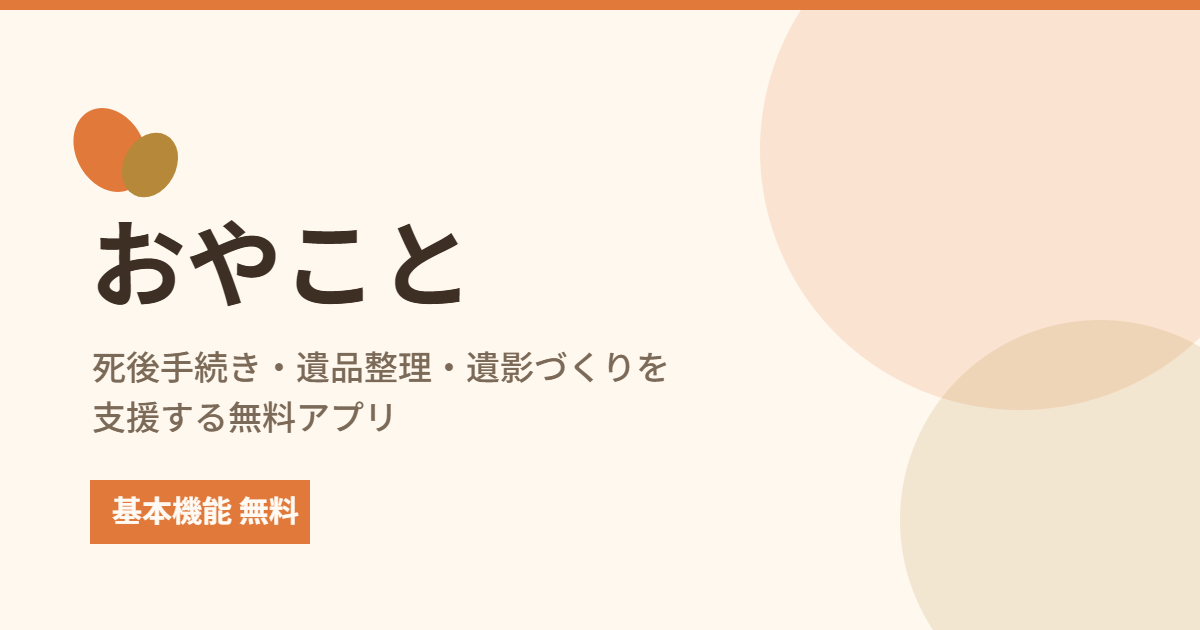
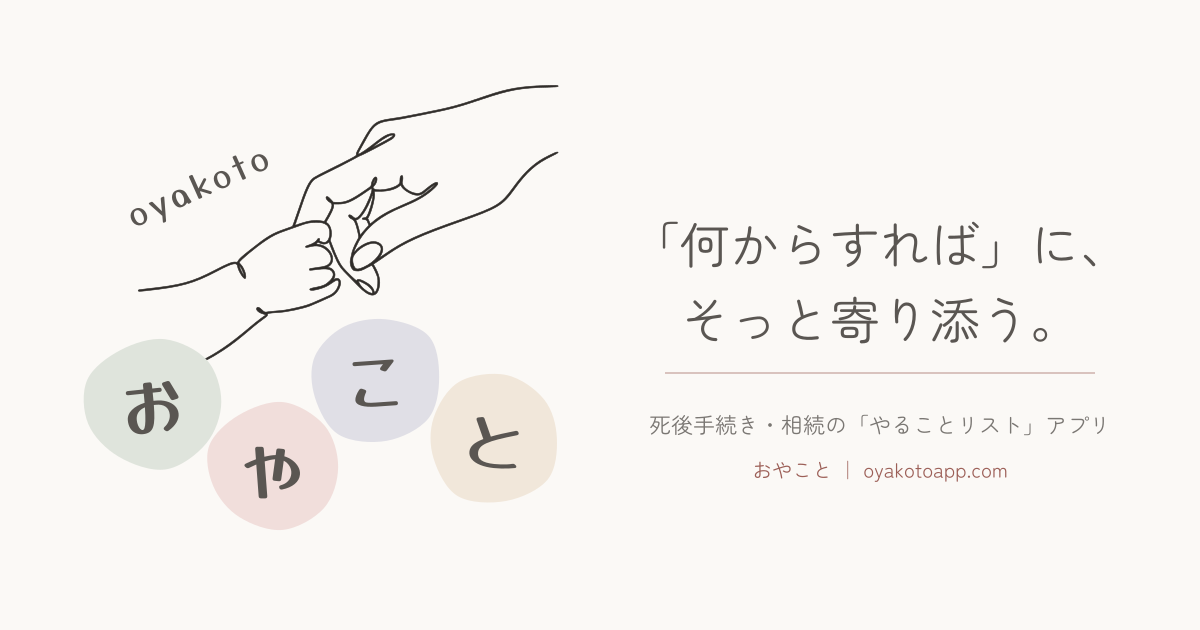
おやことLP: OGP画像を新デザインに差し替え、ダークモードで手の線画を明るく、ヒーロー装飾のヘッダー被りを解消
Claude-Session: https://claude.ai/code/session_015S2PX2bHnh6Qj4D9rhnN3c

diff --git a/oyakoto.html b/oyakoto.html
@@ -22,14 +22,14 @@
 <meta property="og:title" content="死後手続き支援アプリ「おやこと」｜無料・家族で共有｜一般社団法人みらい設計">
 <meta property="og:description" content="死後手続き支援アプリ「おやこと」。親が亡くなった後の手続き・相続タスクを、質問に答えるだけで期限別の「やることリスト」に。ご家族で共有・分担でき、基本機能は無料です。">
 <meta property="og:url" content="https://oyakotoapp.com/oyakoto.html">
-<meta property="og:image" content="https://oyakotoapp.com/ogp.png">
+<meta property="og:image" content="https://oyakotoapp.com/img/oyakoto/ogp.png">
 <meta property="og:image:width" content="1200">
 <meta property="og:image:height" content="630">
 <meta property="og:locale" content="ja_JP">
 <meta name="twitter:card" content="summary_large_image">
 <meta name="twitter:title" content="死後手続き支援アプリ「おやこと」｜無料・家族で共有｜一般社団法人みらい設計">
 <meta name="twitter:description" content="死後手続き支援アプリ「おやこと」。親が亡くなった後の手続き・相続タスクを期限別のやることリストにし、ご家族で共有。基本機能は無料です。">
-<meta name="twitter:image" content="https://oyakotoapp.com/ogp.png">
+<meta name="twitter:image" content="https://oyakotoapp.com/img/oyakoto/ogp.png">
 
 <script type="application/ld+json">
 {
@@ -172,6 +172,7 @@
 
   /* ---------- hero ---------- */
   .hero { position: relative; max-width: 1120px; margin: 0 auto; padding: 50px 24px 30px; overflow: visible; }
+  @media (prefers-color-scheme: dark) { :root:not([data-theme="light"]) .blob { display: none; } }
   .hero-grid { display: grid; grid-template-columns: 1.05fr 0.95fr; gap: 44px; align-items: center; position: relative; z-index: 1; }
   @media (max-width: 900px) { .hero-grid { grid-template-columns: 1fr; } }
   .eyebrow {
@@ -554,11 +555,11 @@ src="https://www.facebook.com/tr?id=1605385461183093&ev=PageView&noscript=1"
 
 <main id="top">
   <section class="hero">
-    <div class="blob blob-float" style="top:-30px; left:-60px; width:220px; height:220px; background:var(--sage); border-radius:42% 58% 65% 35% / 45% 45% 55% 55%;"></div>
+    <div class="blob blob-float" style="top:40px; left:-40px; width:200px; height:200px; background:var(--sage); border-radius:42% 58% 65% 35% / 45% 45% 55% 55%;"></div>
     <div class="blob blob-float-slow" style="bottom:-40px; right:-40px; width:260px; height:260px; background:var(--rose); border-radius:58% 42% 35% 65% / 55% 55% 45% 45%;"></div>
     <div class="hero-grid">
       <div class="hero-text">
-        <img class="hero-logo" src="./img/oyakoto/logo.svg" alt="おやこと" width="300" height="232">
+        <picture><source srcset="./img/oyakoto/logo-dark.svg" media="(prefers-color-scheme: dark)"><img class="hero-logo" src="./img/oyakoto/logo.svg" alt="おやこと" width="300" height="232"></picture>
         <h1><span class="eyebrow h1-kw">死後手続き・相続タスク管理アプリ「おやこと」</span>
         <span class="h1-catch">「何からすれば」に、<br>そっと寄り添う。</span></h1>
         <p class="lead">
@@ -571,7 +572,7 @@ src="https://www.facebook.com/tr?id=1605385461183093&ev=PageView&noscript=1"
           <a class="btn btn-primary btn-lg" href="https://oyakoto.expo.app" target="_blank" rel="noopener" data-cta="hero">Web版を試してみる</a>
           <a class="btn btn-ghost btn-lg" href="#features">できることを見る</a>
         </div>
-        <p class="note">スマホアプリ版(Android・iOS)は準備中です。Web版はブラウザからすぐにお試しいただけます。</p>
+        <p class="note">Android版は現在Google Playで公開準備中、iOS版も準備中です。Web版はブラウザからすぐにお試しいただけます。</p>
       </div>
       <div class="mascot-wrap">
         <span class="stone" style="top:4%; left:8%; background:var(--sage);"></span>

diff --git a/dead-procedures-app.html b/dead-procedures-app.html
@@ -13,14 +13,14 @@
 <meta property="og:title" content="死後手続きを管理できるアプリ・チェックリストの選び方｜5つの管理方法を比較｜おやこと">
 <meta property="og:description" content="死後手続き・相続の手続きを管理するアプリやチェックリストの選び方を解説。紙のエンディングノート、Excel、LINE、自治体のチェックリスト、死後手続き支援アプリの5つを比較し、家族で進捗を共有しながら漏れを防ぐ方法をFPが紹介します。">
 <meta property="og:url" content="https://oyakotoapp.com/dead-procedures-app.html">
-<meta property="og:image" content="https://oyakotoapp.com/ogp.png">
+<meta property="og:image" content="https://oyakotoapp.com/img/oyakoto/ogp.png">
 <meta property="og:image:width" content="1200">
 <meta property="og:image:height" content="630">
 <meta property="og:locale" content="ja_JP">
 <meta name="twitter:card" content="summary_large_image">
 <meta name="twitter:title" content="死後手続きを管理できるアプリ・チェックリストの選び方｜5つの管理方法を比較｜おやこと">
 <meta name="twitter:description" content="死後手続き・相続の手続きを管理するアプリやチェックリストの選び方を解説。紙のエンディングノート、Excel、LINE、自治体のチェックリスト、死後手続き支援アプリの5つを比較し、家族で進捗を共有しながら漏れを防ぐ方法をFPが紹介します。">
-<meta name="twitter:image" content="https://oyakotoapp.com/ogp.png">
+<meta name="twitter:image" content="https://oyakotoapp.com/img/oyakoto/ogp.png">
 
 <script type="application/ld+json">
 [

diff --git a/tetsuzuki.html b/tetsuzuki.html
@@ -13,14 +13,14 @@
 <meta property="og:title" content="親が亡くなった後の手続き一覧（期限別チェックリスト）｜スマホで家族と共有・管理する方法｜おやこと">
 <meta property="og:description" content="親が亡くなった後に必要な手続きを、7日以内・14日以内・3か月以内・4か月以内・10か月以内の期限別に一覧表で解説。死後手続きチェックリストを、スマホで家族と共有・管理する方法もFPが紹介します。">
 <meta property="og:url" content="https://oyakotoapp.com/tetsuzuki.html">
-<meta property="og:image" content="https://oyakotoapp.com/ogp.png">
+<meta property="og:image" content="https://oyakotoapp.com/img/oyakoto/ogp.png">
 <meta property="og:image:width" content="1200">
 <meta property="og:image:height" content="630">
 <meta property="og:locale" content="ja_JP">
 <meta name="twitter:card" content="summary_large_image">
 <meta name="twitter:title" content="親が亡くなった後の手続き一覧（期限別チェックリスト）｜スマホで家族と共有・管理する方法｜おやこと">
 <meta name="twitter:description" content="親が亡くなった後に必要な手続きを、7日以内・14日以内・3か月以内・4か月以内・10か月以内の期限別に一覧表で解説。死後手続きチェックリストを、スマホで家族と共有・管理する方法もFPが紹介します。">
-<meta name="twitter:image" content="https://oyakotoapp.com/ogp.png">
+<meta name="twitter:image" content="https://oyakotoapp.com/img/oyakoto/ogp.png">
 
 <script type="application/ld+json">
 {

diff --git a/yuigon.html b/yuigon.html
@@ -13,14 +13,14 @@
 <meta property="og:title" content="遺言書とエンディングノートの違いとは？書き方・保管方法を解説｜おやこと">
 <meta property="og:description" content="遺言書とエンディングノートは何が違うのか、それぞれの書き方・費用・保管方法・法的効力の有無を解説。自宅で見つけた遺言書を開けてはいけない理由や、公正証書・法務局保管の遺言の手続きの始め方も紹介。">
 <meta property="og:url" content="https://oyakotoapp.com/yuigon.html">
-<meta property="og:image" content="https://oyakotoapp.com/ogp.png">
+<meta property="og:image" content="https://oyakotoapp.com/img/oyakoto/ogp.png">
 <meta property="og:image:width" content="1200">
 <meta property="og:image:height" content="630">
 <meta property="og:locale" content="ja_JP">
 <meta name="twitter:card" content="summary_large_image">
 <meta name="twitter:title" content="遺言書とエンディングノートの違いとは？書き方・保管方法を解説｜おやこと">
 <meta name="twitter:description" content="遺言書とエンディングノートは何が違うのか、それぞれの書き方・費用・保管方法・法的効力の有無を解説。自宅で見つけた遺言書を開けてはいけない理由や、公正証書・法務局保管の遺言の手続きの始め方も紹介。">
-<meta name="twitter:image" content="https://oyakotoapp.com/ogp.png">
+<meta name="twitter:image" content="https://oyakotoapp.com/img/oyakoto/ogp.png">
 
 <script type="application/ld+json">
 {

diff --git a/junkakutei-shinkoku.html b/junkakutei-shinkoku.html
@@ -13,14 +13,14 @@
 <meta property="og:title" content="準確定申告とは？期限・やり方・相続税申告との違いをFPが解説｜おやこと">
 <meta property="og:description" content="準確定申告とは、亡くなった方の所得税を精算する手続きです。期限は相続開始を知った日の翌日から4ヶ月以内。対象になる人、必要書類、相続税申告との違い、医療費控除で還付を受けられるケースまでFPが解説します。">
 <meta property="og:url" content="https://oyakotoapp.com/junkakutei-shinkoku.html">
-<meta property="og:image" content="https://oyakotoapp.com/ogp.png">
+<meta property="og:image" content="https://oyakotoapp.com/img/oyakoto/ogp.png">
 <meta property="og:image:width" content="1200">
 <meta property="og:image:height" content="630">
 <meta property="og:locale" content="ja_JP">
 <meta name="twitter:card" content="summary_large_image">
 <meta name="twitter:title" content="準確定申告とは？期限・やり方・相続税申告との違いをFPが解説｜おやこと">
 <meta name="twitter:description" content="準確定申告とは、亡くなった方の所得税を精算する手続きです。期限は相続開始を知った日の翌日から4ヶ月以内。相続税申告との違いや、還付を受けられるケースを解説します。">
-<meta name="twitter:image" content="https://oyakotoapp.com/ogp.png">
+<meta name="twitter:image" content="https://oyakotoapp.com/img/oyakoto/ogp.png">
 
 <script type="application/ld+json">
 {

diff --git a/columns.html b/columns.html
@@ -13,14 +13,14 @@
 <meta property="og:title" content="お知らせ・コラム｜死後手続き・終活のお役立ち情報｜おやこと">
 <meta property="og:description" content="「おやこと」からのお知らせと、死後の手続き一覧・実家じまい・墓じまい・死後事務委任契約・空き家対策・遺言書・遺品整理業者の選び方など、死後手続き・終活に関するお役立ちコラムを掲載しています。">
 <meta property="og:url" content="https://oyakotoapp.com/columns.html">
-<meta property="og:image" content="https://oyakotoapp.com/ogp.png">
+<meta property="og:image" content="https://oyakotoapp.com/img/oyakoto/ogp.png">
 <meta property="og:image:width" content="1200">
 <meta property="og:image:height" content="630">
 <meta property="og:locale" content="ja_JP">
 <meta name="twitter:card" content="summary_large_image">
 <meta name="twitter:title" content="お知らせ・コラム｜死後手続き・終活のお役立ち情報｜おやこと">
 <meta name="twitter:description" content="「おやこと」からのお知らせと、死後手続き・終活に関するお役立ちコラムを掲載しています。">
-<meta name="twitter:image" content="https://oyakotoapp.com/ogp.png">
+<meta name="twitter:image" content="https://oyakotoapp.com/img/oyakoto/ogp.png">
 
 <style>
   @import url("https://fonts.googleapis.com/css2?family=Zen+Maru+Gothic:wght@500;700;900&family=Zen+Kaku+Gothic+New:wght@400;500;700&display=swap");

diff --git a/akiya.html b/akiya.html
@@ -13,14 +13,14 @@
 <meta property="og:title" content="空き家を放置するとどうなる？固定資産税6倍のリスクと今できる対策｜おやこと">
 <meta property="og:description" content="空き家を放置するリスクと2023年法改正の内容、固定資産税が最大6倍になる仕組み、相続登記の義務化、相続土地国庫帰属制度まで解説。相続した実家が空き家になりそうな方へ。">
 <meta property="og:url" content="https://oyakotoapp.com/akiya.html">
-<meta property="og:image" content="https://oyakotoapp.com/ogp.png">
+<meta property="og:image" content="https://oyakotoapp.com/img/oyakoto/ogp.png">
 <meta property="og:image:width" content="1200">
 <meta property="og:image:height" content="630">
 <meta property="og:locale" content="ja_JP">
 <meta name="twitter:card" content="summary_large_image">
 <meta name="twitter:title" content="空き家を放置するとどうなる？固定資産税6倍のリスクと今できる対策｜おやこと">
 <meta name="twitter:description" content="空き家を放置するリスクと2023年法改正の内容、固定資産税が最大6倍になる仕組み、相続登記の義務化、相続土地国庫帰属制度まで解説。相続した実家が空き家になりそうな方へ。">
-<meta name="twitter:image" content="https://oyakotoapp.com/ogp.png">
+<meta name="twitter:image" content="https://oyakotoapp.com/img/oyakoto/ogp.png">
 
 <script type="application/ld+json">
 {

diff --git a/rogo-shikin.html b/rogo-shikin.html
@@ -13,14 +13,14 @@
 <meta property="og:title" content="老後資金の使い方とは？終活で考えたいお金の向き合い方をFPが解説｜おやこと">
 <meta property="og:description" content="老後資金は「貯める」だけでなく「どう使うか・どう遺すか」も大切な終活の一部です。資産の取り崩し方の考え方、使うお金と遺すお金のバランス、生前贈与の基本まで、FPがやさしく解説します。">
 <meta property="og:url" content="https://oyakotoapp.com/rogo-shikin.html">
-<meta property="og:image" content="https://oyakotoapp.com/ogp.png">
+<meta property="og:image" content="https://oyakotoapp.com/img/oyakoto/ogp.png">
 <meta property="og:image:width" content="1200">
 <meta property="og:image:height" content="630">
 <meta property="og:locale" content="ja_JP">
 <meta name="twitter:card" content="summary_large_image">
 <meta name="twitter:title" content="老後資金の使い方とは？終活で考えたいお金の向き合い方をFPが解説｜おやこと">
 <meta name="twitter:description" content="老後資金は「貯める」だけでなく「どう使うか・どう遺すか」も大切な終活の一部です。資産の取り崩し方や生前贈与の基本をFPが解説します。">
-<meta name="twitter:image" content="https://oyakotoapp.com/ogp.png">
+<meta name="twitter:image" content="https://oyakotoapp.com/img/oyakoto/ogp.png">
 
 <script type="application/ld+json">
 {

diff --git a/ihinseiri.html b/ihinseiri.html
@@ -13,14 +13,14 @@
 <meta property="og:title" content="遺品整理業者の選び方｜料金相場と悪徳業者を見抜くポイント｜おやこと">
 <meta property="og:description" content="遺品整理業者の選び方を解説。必要な許可・資格、料金相場、よくあるトラブル事例、悪徳業者の見抜き方まで、初めて依頼する方向けにまとめました。">
 <meta property="og:url" content="https://oyakotoapp.com/ihinseiri.html">
-<meta property="og:image" content="https://oyakotoapp.com/ogp.png">
+<meta property="og:image" content="https://oyakotoapp.com/img/oyakoto/ogp.png">
 <meta property="og:image:width" content="1200">
 <meta property="og:image:height" content="630">
 <meta property="og:locale" content="ja_JP">
 <meta name="twitter:card" content="summary_large_image">
 <meta name="twitter:title" content="遺品整理業者の選び方｜料金相場と悪徳業者を見抜くポイント｜おやこと">
 <meta name="twitter:description" content="遺品整理業者の選び方を解説。必要な許可・資格、料金相場、よくあるトラブル事例、悪徳業者の見抜き方まで、初めて依頼する方向けにまとめました。">
-<meta name="twitter:image" content="https://oyakotoapp.com/ogp.png">
+<meta name="twitter:image" content="https://oyakotoapp.com/img/oyakoto/ogp.png">
 
 <script type="application/ld+json">
 {

diff --git a/shigojimu.html b/shigojimu.html
@@ -13,14 +13,14 @@
 <meta property="og:title" content="死後事務委任契約とは？おひとりさまの備えと遺族が直面する現実｜おやこと">
 <meta property="og:description" content="死後事務委任契約の内容・費用・注意点を解説。契約のないまま家族を送った遺族に実際何が起きるのか、その支えとなる「おやこと」も紹介。">
 <meta property="og:url" content="https://oyakotoapp.com/shigojimu.html">
-<meta property="og:image" content="https://oyakotoapp.com/ogp.png">
+<meta property="og:image" content="https://oyakotoapp.com/img/oyakoto/ogp.png">
 <meta property="og:image:width" content="1200">
 <meta property="og:image:height" content="630">
 <meta property="og:locale" content="ja_JP">
 <meta name="twitter:card" content="summary_large_image">
 <meta name="twitter:title" content="死後事務委任契約とは？おひとりさまの備えと遺族が直面する現実｜おやこと">
 <meta name="twitter:description" content="死後事務委任契約の内容・費用・注意点を解説。契約のないまま家族を送った遺族に実際何が起きるのか、その支えとなる「おやこと」も紹介。">
-<meta name="twitter:image" content="https://oyakotoapp.com/ogp.png">
+<meta name="twitter:image" content="https://oyakotoapp.com/img/oyakoto/ogp.png">
 
 <script type="application/ld+json">
 {

diff --git a/hakajimai.html b/hakajimai.html
@@ -13,14 +13,14 @@
 <meta property="og:title" content="墓じまいとは？進め方・費用相場・改葬手続きをFPが解説｜おやこと">
 <meta property="og:description" content="墓じまいの進め方を6ステップで解説。離檀料・改葬先の費用相場、よくあるトラブルとFPによる体験談も紹介。墓じまいで迷ったら「おやこと」へ。">
 <meta property="og:url" content="https://oyakotoapp.com/hakajimai.html">
-<meta property="og:image" content="https://oyakotoapp.com/ogp.png">
+<meta property="og:image" content="https://oyakotoapp.com/img/oyakoto/ogp.png">
 <meta property="og:image:width" content="1200">
 <meta property="og:image:height" content="630">
 <meta property="og:locale" content="ja_JP">
 <meta name="twitter:card" content="summary_large_image">
 <meta name="twitter:title" content="墓じまいとは？進め方・費用相場・改葬手続きをFPが解説｜おやこと">
 <meta name="twitter:description" content="墓じまいの進め方を6ステップで解説。離檀料・改葬先の費用相場、よくあるトラブルとFPによる体験談も紹介。墓じまいで迷ったら「おやこと」へ。">
-<meta name="twitter:image" content="https://oyakotoapp.com/ogp.png">
+<meta name="twitter:image" content="https://oyakotoapp.com/img/oyakoto/ogp.png">
 
 <script type="application/ld+json">
 {

diff --git a/jikkajimai.html b/jikkajimai.html
@@ -13,14 +13,14 @@
 <meta property="og:title" content="実家じまいとは？進め方・費用相場・注意点をFPが解説｜おやこと">
 <meta property="og:description" content="実家じまいの進め方を6ステップで解説。費用相場、よくある後悔ポイント、FPによる体験談も紹介。実家じまいで迷ったら「おやこと」へ。">
 <meta property="og:url" content="https://oyakotoapp.com/jikkajimai.html">
-<meta property="og:image" content="https://oyakotoapp.com/ogp.png">
+<meta property="og:image" content="https://oyakotoapp.com/img/oyakoto/ogp.png">
 <meta property="og:image:width" content="1200">
 <meta property="og:image:height" content="630">
 <meta property="og:locale" content="ja_JP">
 <meta name="twitter:card" content="summary_large_image">
 <meta name="twitter:title" content="実家じまいとは？進め方・費用相場・注意点をFPが解説｜おやこと">
 <meta name="twitter:description" content="実家じまいの進め方を6ステップで解説。費用相場、よくある後悔ポイント、FPによる体験談も紹介。実家じまいで迷ったら「おやこと」へ。">
-<meta name="twitter:image" content="https://oyakotoapp.com/ogp.png">
+<meta name="twitter:image" content="https://oyakotoapp.com/img/oyakoto/ogp.png">
 
 <script type="application/ld+json">
 {
